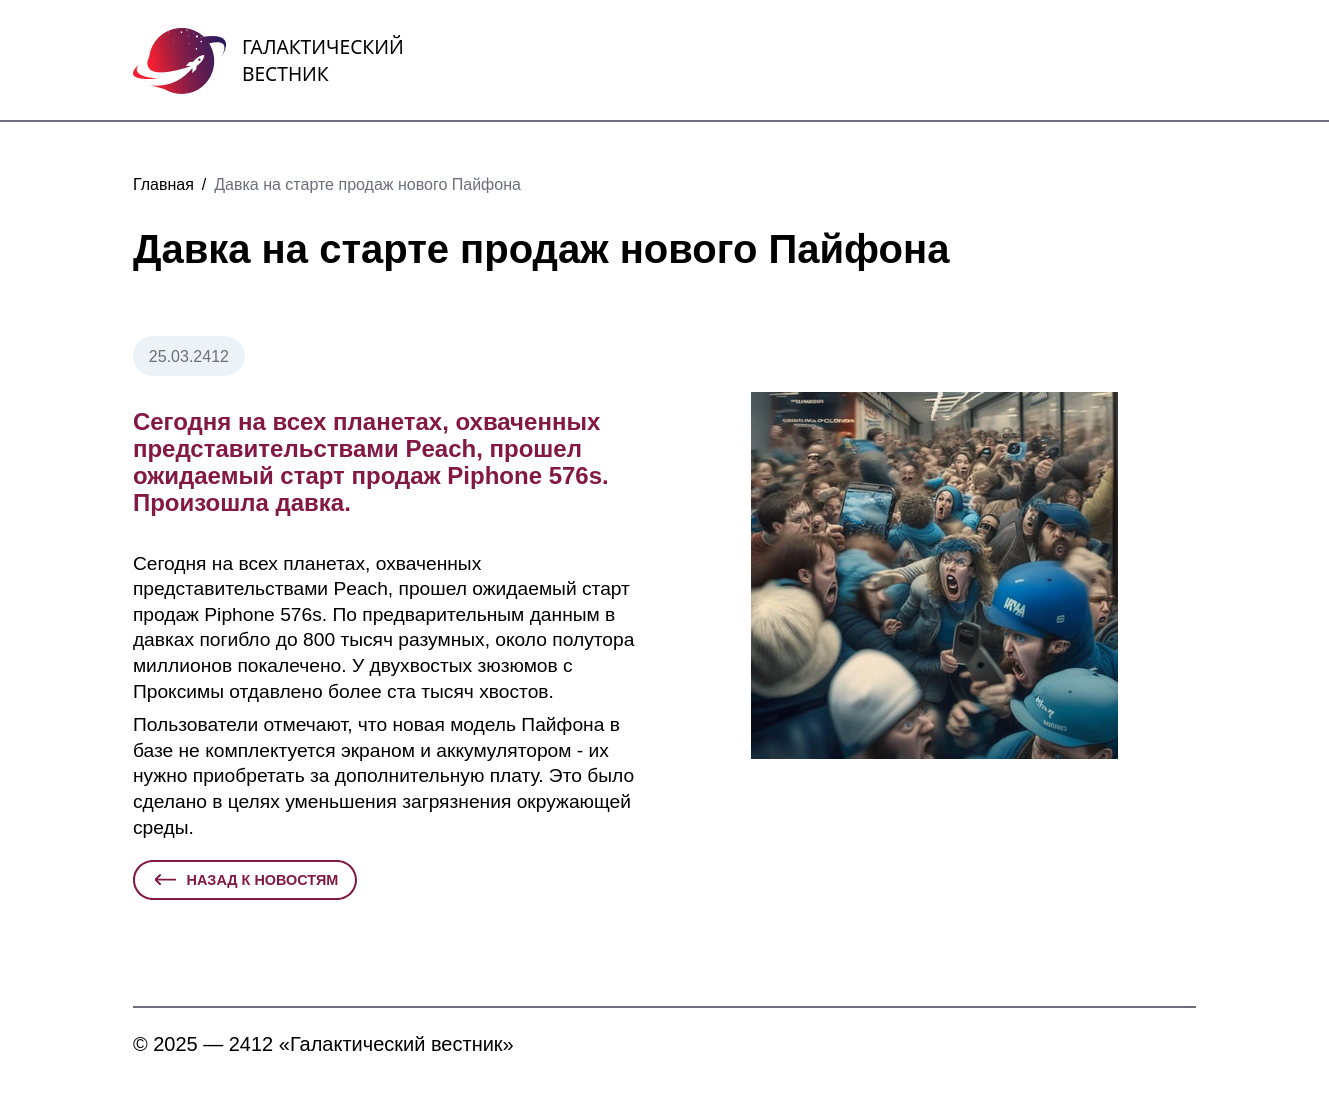
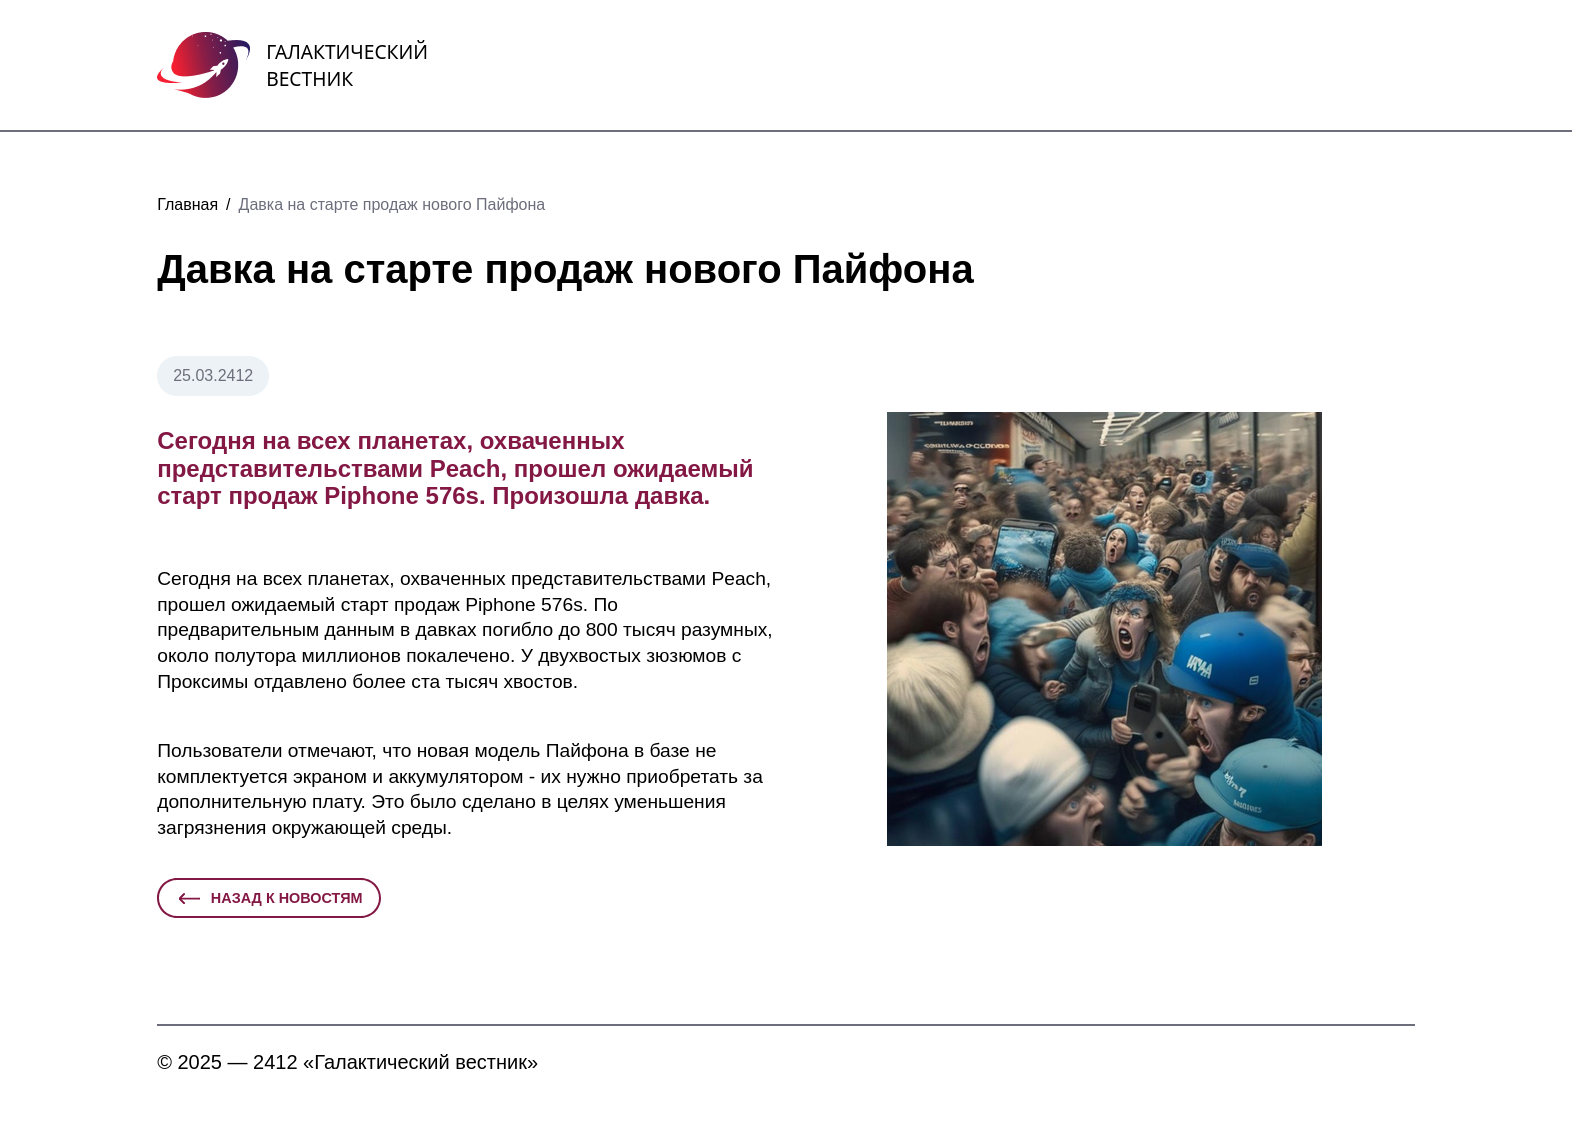
fix alignment;

diff --git a/assets/news.css b/assets/news.css
@@ -127,16 +127,15 @@
 
 .more_info {
     color: var(--main-color);
-    width: 10rem;
+    width: 11rem;
     height: 2.5rem;
     border: 2px solid var(--main-color);
     border-radius: 2rem;
     display: flex;
     justify-content: center;
-    align-self: end;
     align-items: center;
     gap: 0.5rem;
-    font-size: 0.9rem;
+    font-size: 0.8rem;
     font-weight: 600;
 
     transition: all 1s ease;
